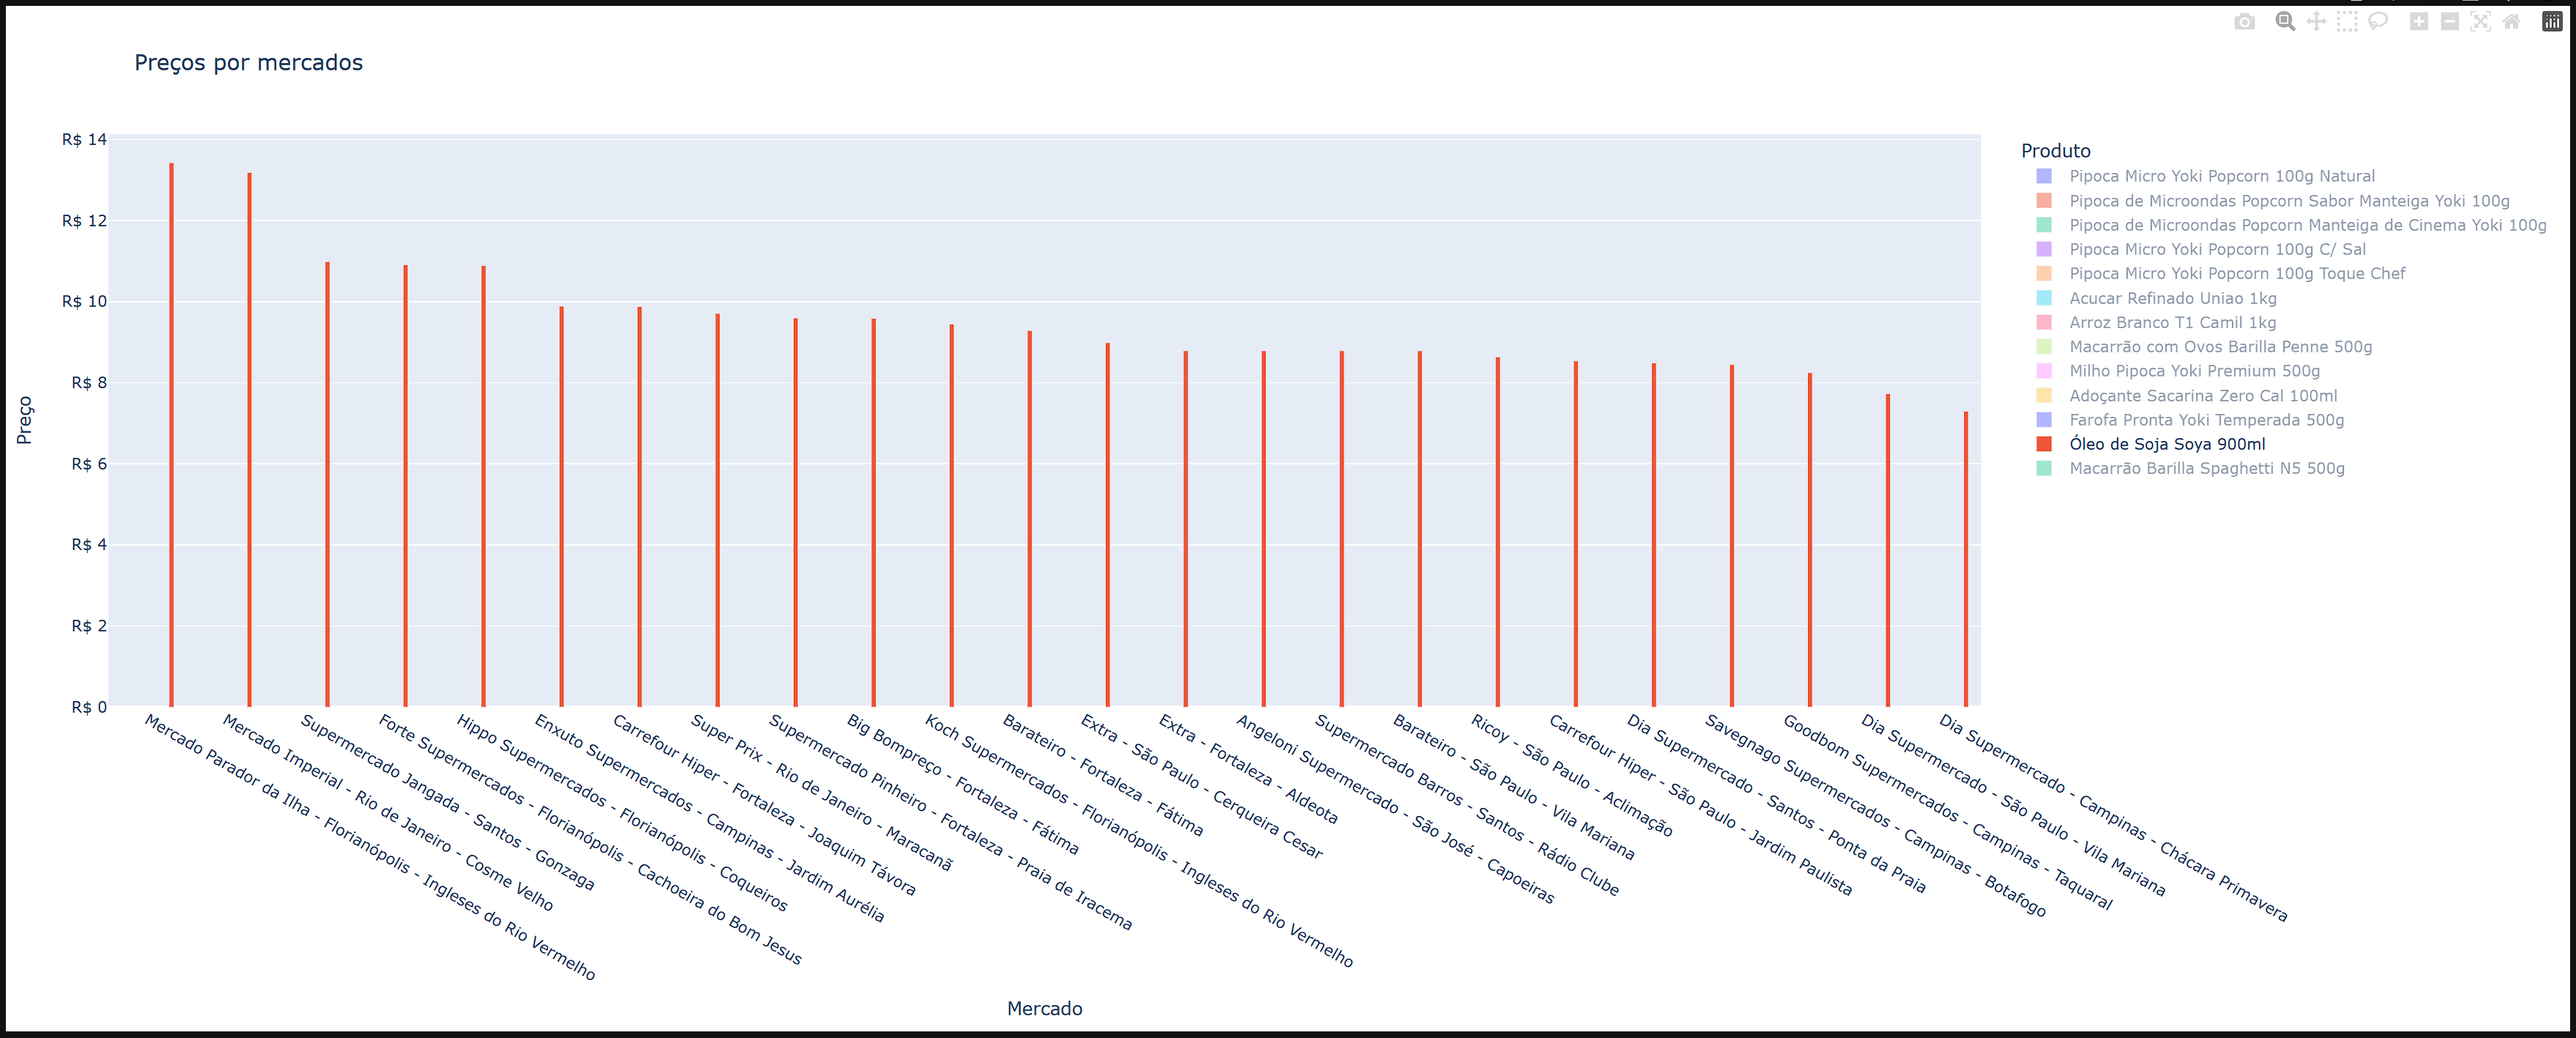
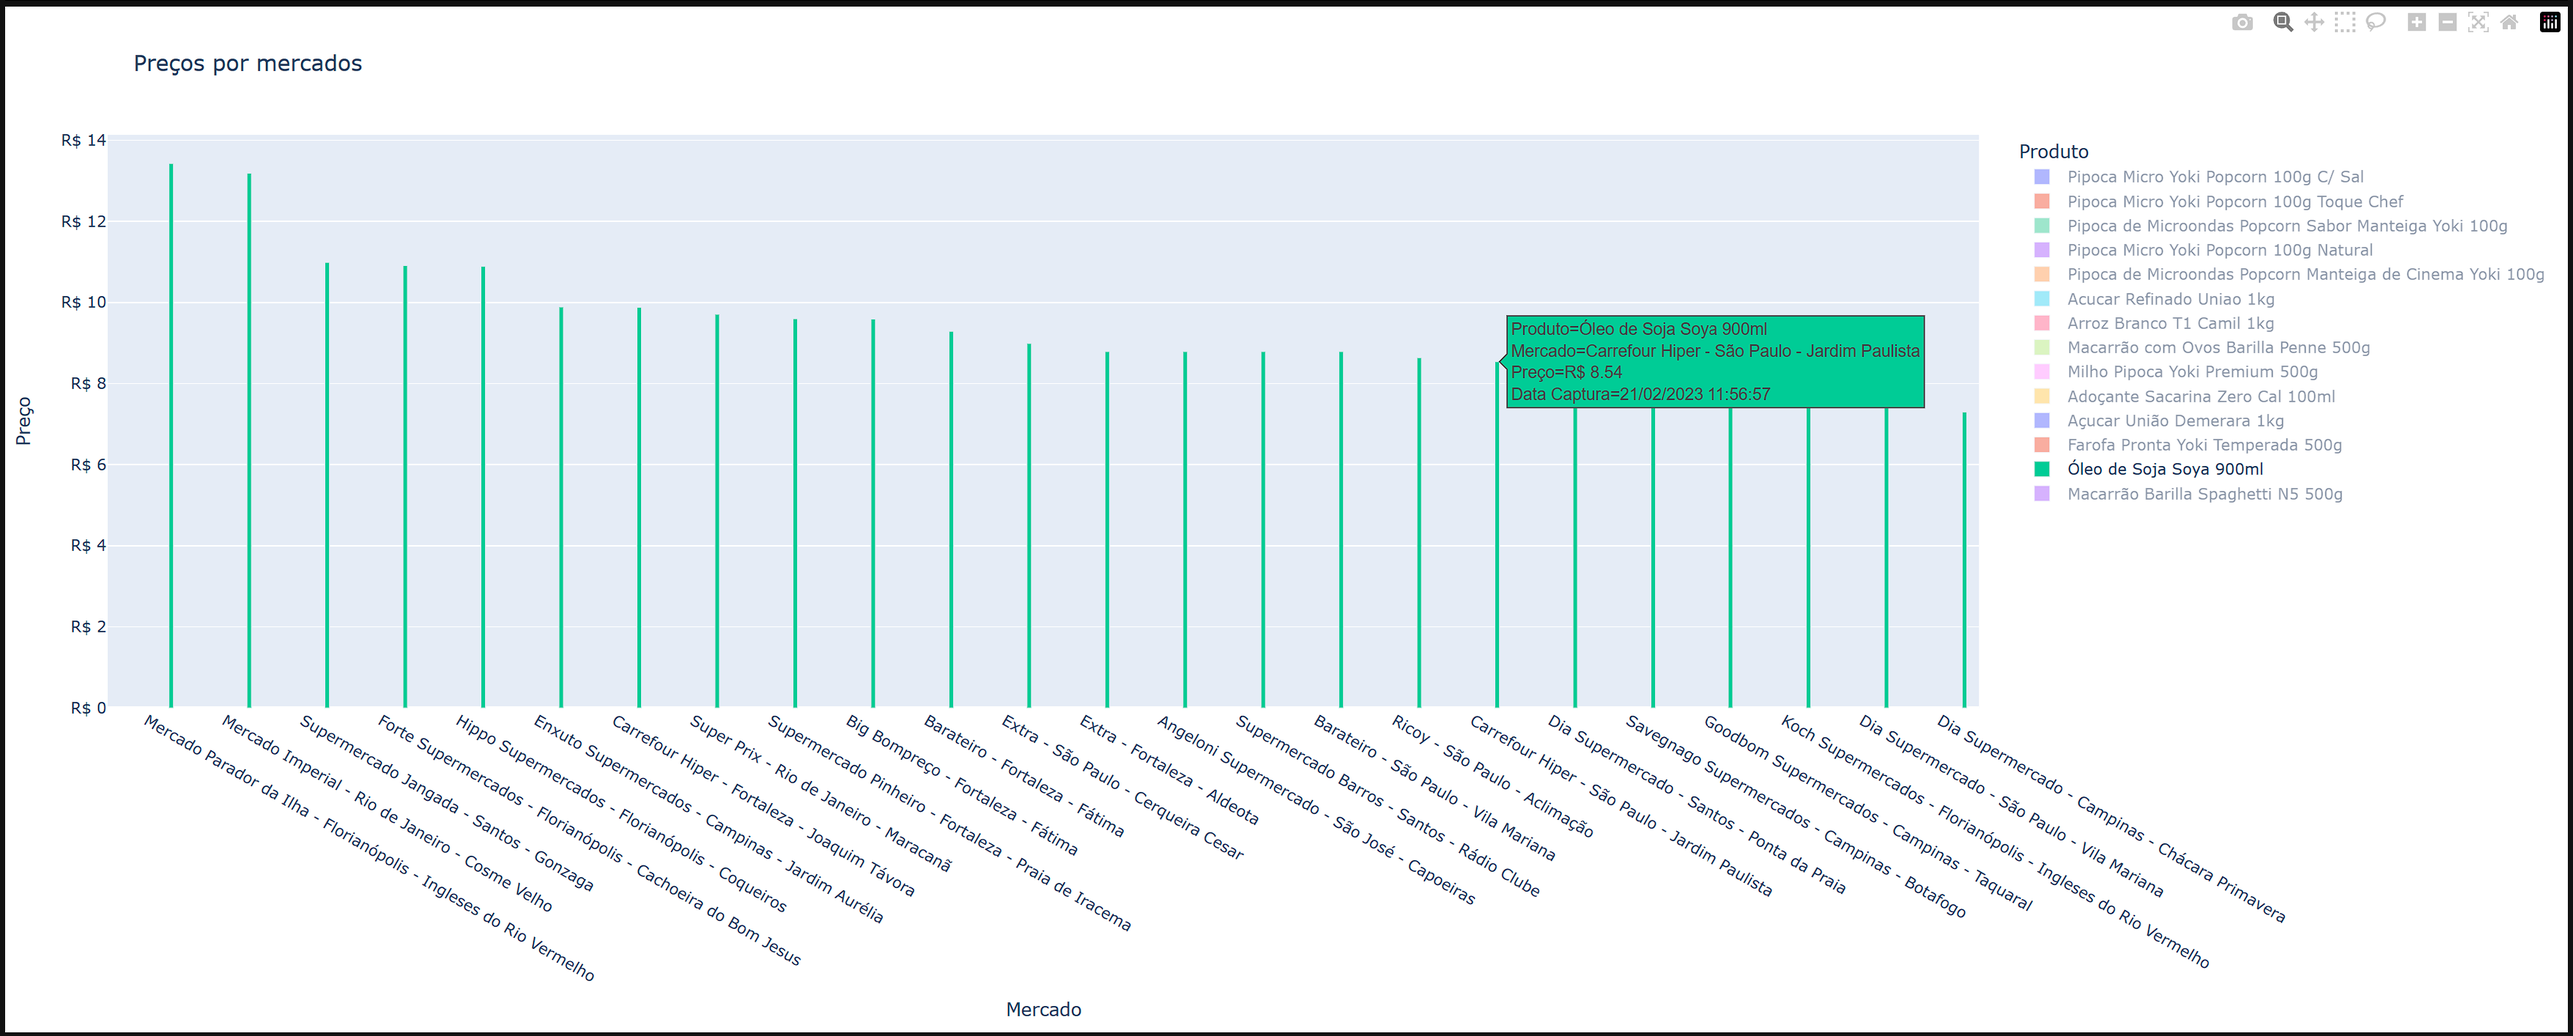
Improves charts

diff --git a/analyzes/README.md b/analyzes/README.md
@@ -98,6 +98,7 @@ pipeline = [
         "$replaceRoot": {
             "newRoot": {
                 "nome": "$_id.nome",
+                "data_captura": "$data_captura",
                 "cidade_mercado": {
                     "$arrayElemAt": ["$mercado.cidade", 0],
                 },
@@ -131,6 +132,8 @@ df["mercado_cidade"] = (
     df["nome_mercado"] + " - " + df["cidade_mercado"] + " - " + df["bairro_mercado"]
 )
 
+df['data_captura'] = pd.to_datetime(df['data_captura']).dt.strftime('%d/%m/%Y %H:%M:%S')
+
 fig = px.bar(
     df,
     x="mercado_cidade",
@@ -140,7 +143,9 @@ fig = px.bar(
         "mercado_cidade": "Mercado",
         "nome": "Produto",
         "preco": "Preço",
+        "data_captura": "Data Captura"
     },
+    hover_data=["data_captura"],
     title="Preços por mercados",
     barmode="group",
     height=800,
@@ -221,7 +226,7 @@ df = pd.DataFrame(list(result))
 df = df.query("id_mercado == 1") # Change ID of market to analysis.
 
 df['preco_ant'] = df['preco'].shift()
-df['preco_diff'] = (df['preco'] - df['preco'].shift()).map('{:,.2f}'.format, na_action='ignore')
+df['preco_diff'] = (df['preco'] - df['preco'].shift()).map('{:+,.2f}'.format, na_action='ignore')
 df['preco_percent'] = ((abs(df['preco'] - df['preco'].shift()) / df['preco'].shift()) * 100.0).map('{:,.2f}'.format, na_action='ignore')
 
 data_mercado = df.iloc[0].to_dict()
@@ -248,7 +253,7 @@ fig.update_traces(
     hovertemplate="<br>".join([
         "Data captura: %{x}",
         "Preço: %{y}",
-        "Mudança preço: R$ %{customdata[1]} (%{customdata[3]})",
+        "Mudança preço: R$ %{customdata[1]} (Antes: R$ %{customdata[3]})",
         "Porcentagem de mudança preço: %{customdata[2]}%"
     ])
 )
@@ -273,8 +278,11 @@ fig.update_layout(
                         }
                     ],
                 }
-                for m in ["Selecione o produto..."] + list(map(lambda d: d.name, fig.data))
-            ]
+                for m in ["Selecione o produto..."] + sorted(list(map(lambda d: d.name, fig.data)))
+            ],
+            'type':'dropdown',
+            "direction": "down",
+            "showactive": True
         }
     ]
 )
